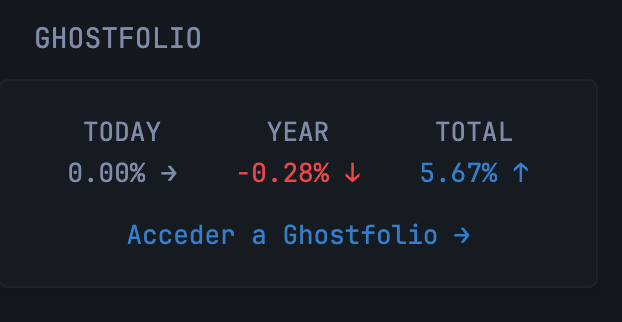
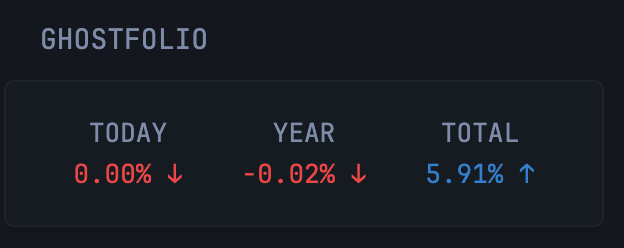
update readm.md/preview.md
Update to move the acces link to title-url

diff --git a/Glance/widgets/ghostfolio-stats-by-ziritione85/README.md b/Glance/widgets/ghostfolio-stats-by-ziritione85/README.md
@@ -4,6 +4,7 @@
 ```yaml
 - type: custom-api
   title: Ghostfolio
+  title-url: ${GHOSTFOLIO_URL}
   cache: 5m
   url: ${GHOSTFOLIO_PUBLIC_URL}
   # Replace with the URL of your Ghostfolio instance and your public access ID (My Ghostfolio/Access/Add new)
@@ -41,9 +42,6 @@
             </p>
           </div>
         </div>
-      </div>
-      <div style="text-align: center; margin-top: 10px;">
-        <a href="${GHOSTFOLIO_URL}">Access Ghostfolio →</a>
       </div>
     {{ else }}
       <div style="text-align: center; color: red;">
